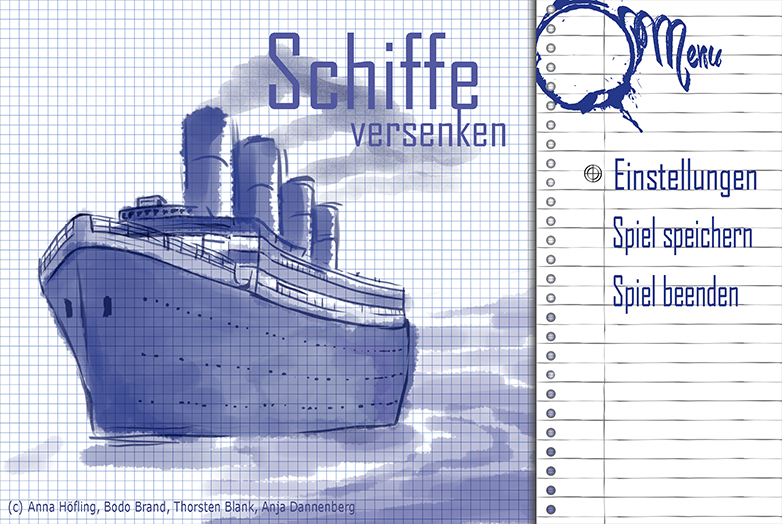
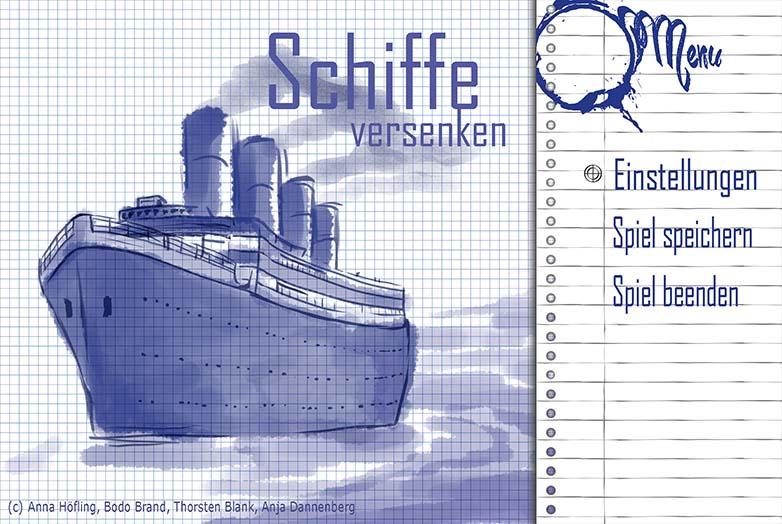
images compromised

diff --git a/gallery/theFlyingPostman.html b/gallery/theFlyingPostman.html
@@ -44,25 +44,25 @@
 					<!-- Full-width images with number and caption text -->
 						<div class="mySlides fade">
 							<div class="numbertext">1 / 3</div>
-							<img src="img/TfP_Rocks.png" style="max-width:100%"/>
+							<img src="img/TfP_Rocks.jpg" style="max-width:100%"/>
 							<div class="text">Caption Text</div>
 						</div>
 						
 						<div class="mySlides fade">
 							<div class="numbertext">2 / 3</div>
-							<img src="img/TfP_foliage.png" style="max-width:100%"/>
+							<img src="img/TfP_foliage.jpg" style="max-width:100%"/>
 							<div class="text">Caption Two</div>
 						</div>
 						
 						<div class="mySlides fade">
 							<div class="numbertext">3 / 3</div>
-							<img src="img/TfP_houses.png" style="max-width:100%"/>
+							<img src="img/TfP_houses.jpg" style="max-width:100%"/>
 							<div class="text">Caption Three</div>
 						</div>
 				
 						<div class="mySlides fade">
 								<div class="numbertext">3 / 3</div>
-								<img src="img/TfP_GUI.png" style="max-width:100%"/>
+								<img src="img/TfP_GUI.jpg" style="max-width:100%"/>
 								<div class="text">Caption Three</div>
 						</div>
 
@@ -110,25 +110,25 @@
 				
 						<div class="mySlides fade">
 								<div class="numbertext">3 / 3</div>
-								<img src="img/TfP_screenshot01.png" style="max-width:100%"/>
+								<img src="img/TfP_screenshot01.jpg" style="max-width:100%"/>
 								<div class="text">Caption Three</div>
 						</div>
 				
 						<div class="mySlides fade">
 								<div class="numbertext">3 / 3</div>
-								<img src="img/TfP_screenshot02.png" style="max-width:100%"/>
+								<img src="img/TfP_screenshot02.jpg" style="max-width:100%"/>
 								<div class="text">Caption Three</div>
 						</div>
 				
 						<div class="mySlides fade">
 								<div class="numbertext">3 / 3</div>
-								<img src="img/TfP_screenshot03.png" style='max-width:100%'/>
+								<img src="img/TfP_screenshot03.jpg" style='max-width:100%'/>
 								<div class="text">Caption Three</div>
 						</div>
 				
 						<div class="mySlides fade">
 								<div class="numbertext">3 / 3</div>
-								<img src="img/TfP_screenshot04.png" style="max-width:100%"/>
+								<img src="img/TfP_screenshot04.jpg" style="max-width:100%"/>
 								<div class="text">Caption Three</div>
 						</div>
 

diff --git a/gallery/otherProjects.html b/gallery/otherProjects.html
@@ -40,7 +40,7 @@
                         <!-- Full-width images with number and caption text -->
                         <div class="mySlides fade">
                             <div class="numbertext">1 / 3</div>
-                            <img src="img/Curtains.png" style='max-width:100%'>
+                            <img src="img/Curtains.jpg" style='max-width:100%'>
                             <div class="text">Caption Text</div>
                         </div>
 
@@ -64,19 +64,19 @@
                         
                         <div class="mySlides fade">
                             <div class="numbertext">2 / 3</div>
-                            <img src="img/Bodo_Profilbild.png" style='max-width:100%'/>
+                            <img src="img/Bodo_Profilbild.jpg" style='max-width:100%'/>
                             <div class="text">Caption Two</div>
                         </div>
                         
                         <div class="mySlides fade">
                             <div class="numbertext">3 / 3</div>
-                            <img src="img/Timur_Profilbild.png" style='max-width:100%'/>
+                            <img src="img/Timur_Profilbild.jpg" style='max-width:100%'/>
                             <div class="text">Caption Three</div>
                         </div>
 
                         <div class="mySlides fade">
                             <div class="numbertext">3 / 3</div>
-                            <img src="img/Linus_portrait_vector_smaller.png" style='max-width:100%'/>
+                            <img src="img/Linus_portrait_vector_smaller.jpg" style='max-width:100%'/>
                             <div class="text">Caption Three</div>
                         </div>
 

diff --git a/gallery/conceptArt.html b/gallery/conceptArt.html
@@ -38,31 +38,31 @@
 					<!-- Full-width images with number and caption text -->
 					<div class="mySlides fade">
 						<div class="numbertext">1 / 3</div>
-						<img src="img/golden_tree_002_smaller.png" style='max-width:100%'/>
+						<img src="img/golden_tree_002_smaller.jpg" style='max-width:100%'/>
 						<div class="text">Golden Tree</div>
 					</div>
 					
 					<div class="mySlides fade">
 						<div class="numbertext">2 / 3</div>
-						<img src="img/Linus_forest_007_smaller.png" style='max-width:100%'/>
+						<img src="img/Linus_forest_007_smaller.jpg" style='max-width:100%'/>
 						<div class="text">Linus and his Forest</div>
 					</div>
 					
 					<div class="mySlides fade">
 						<div class="numbertext">3 / 3</div>
-						<img src="img/secret_passage_006_smaller.png" style='max-width:100%'/>
+						<img src="img/secret_passage_006_smaller.jpg" style='max-width:100%'/>
 						<div class="text">Secret Passage</div>
 					</div>
 					
 					<div class="mySlides fade">
 						<div class="numbertext">3 / 3</div>
-						<img src="img/arabien_nights_004-2_smaller.png" style='max-width:100%'/>
+						<img src="img/arabien_nights_004-2_smaller.jpg" style='max-width:100%'/>
 						<div class="text">Arabian Nights</div>
 					</div>
 			
 					<div class="mySlides fade">
 						<div class="numbertext">1 / 3</div>
-						<img src="img/Melina_Warther_01_small.png" style='max-width:100%'/>
+						<img src="img/Melina_Warther_01_small.jpg" style='max-width:100%'/>
 						<div class="text">Character Design - Melina Warther</div>
 					</div>
 			

diff --git a/gallery/otherGames.html b/gallery/otherGames.html
@@ -44,13 +44,13 @@
 						<!-- Full-width images with number and caption text -->
 						<div class="mySlides fade">
 							<div class="numbertext">1 / 3</div>
-							<img src="img/ToAN_screenshot.png" style='max-width:100%'/>
+							<img src="img/ToAN_screenshot.jpg" style='max-width:100%'/>
 							<div class="text">Caption Text</div>
 						</div>
 						
 						<div class="mySlides fade">
 							<div class="numbertext">2 / 3</div>
-							<img src="img/ToAN_GUI.png" style='max-width:100%'/>
+							<img src="img/ToAN_GUI.jpg" style='max-width:100%'/>
 							<div class="text">Caption Two</div>
 						</div>
 
